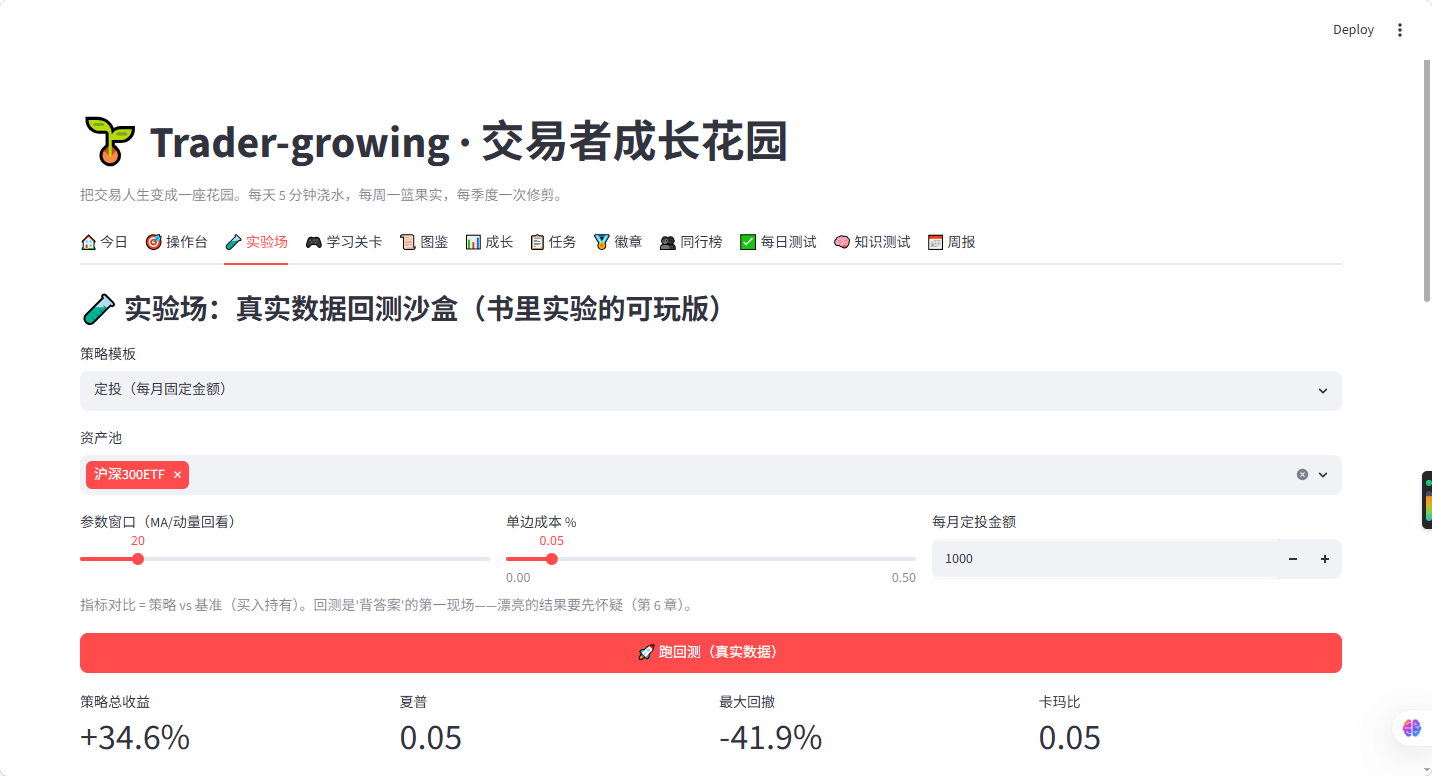
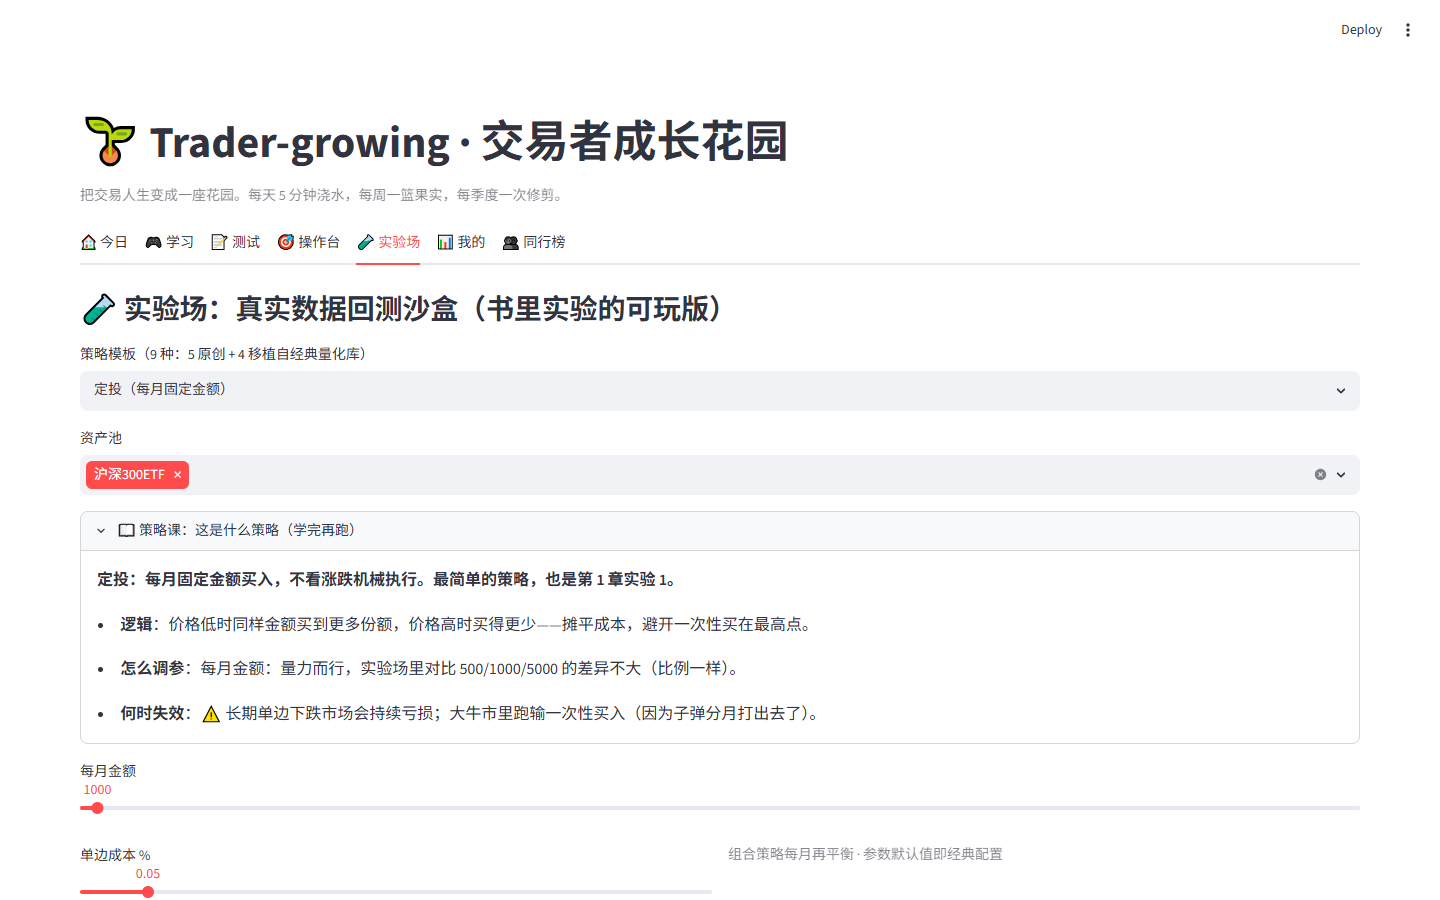
feat: 陷阱迷宫新增 6-4 关卡「马克维茨翻车现场」+ 截图更新
- levels.py: 6-4 关卡（知识卡+动态任务+3题测验+配图）
- levels.py: solve_task 新增 ef_champion —— scipy 实算四资产马克维茨
  最大夏普权重，答案动态（当前数据：黄金 74%）
- charts.py: ef_weights —— 马克维茨 vs 风险平价权重对比柱状图
- bestiary.py: 新图鉴条目「有效前沿」（关卡专属解锁）
- app.py: _evidence 展示马克维茨 vs 风险平价权重差（集中押注）
- scripts/screenshot.py: tab 名适配（🎮 学习关卡 → 🎮 学习）
- assets/screenshots: 三张界面截图重新生成（适配 7-tab 新界面）

diff --git a/trader_growing/levels.py b/trader_growing/levels.py
@@ -616,6 +616,29 @@ LEVELS = {'1-1': {'chapter': 1,
                    'ans': 0,
                    'exp': '真实案例：同样 5 年数据，两种切法一正一负——切法一变就翻脸。'}],
          'chart': 'odd_even_bars'},
+ '6-4': {'chapter': 6,
+         'name': '马克维茨翻车现场',
+         'dim': 'philosophy',
+         'xp': 15,
+         'figure': 'markowitz',
+         'knowledge': '马克维茨组合（有效前沿）= 用历史数据优化权重，找「夏普最高」的配置——相当于在「权重空间」里选参数。它样本内永远是学霸（权重就照着样本内答案优化）；但期望收益是最难估计的量，优化会把历史噪音当规律。学术经典（DeMiguel 2009）：由于估计误差，朴素方法（等权/风险平价）样本外经常反超「最优」。四资产实测（样本内 2016-2024 → 样本外 2025 起）：马克维茨把约七成仓位押给黄金（风险平价只给四成）；样本外风险调整后夏普 1.33 输给风险平价 1.63，回撤 -21% 近两倍。估计得越多，错得越多；「最优」两个字最危险。',
+         'task': {'type': 'ef_champion',
+                  'args': {},
+                  'text': '🧪 实战任务：四资产（沪深300/纳指100/黄金/原油）真实验证。在样本内（{is_start}~{is_end}）做「马克维茨最大夏普」优化，它会把最大的仓位分给哪个资产？（输入：1=沪深300，2=纳指100，3=黄金，4=原油）',
+                  'hint': '马克维茨按「期望收益 ÷ 协方差」打分——历史上的大赢家会被喂到最饱'},
+         'quiz': [{'q': '马克维茨有效前沿依赖哪个最难估计的输入？',
+                   'opts': ['股价', '期望收益', '成交量', '交易日'],
+                   'ans': 1,
+                   'exp': '期望收益是金融里最难估计的量——这是它脆弱的根源。'},
+                  {'q': '为什么朴素方法（等权/风险平价）样本外常常更好？',
+                   'opts': ['运气好', '不需要估计期望收益，绕开了最大的估计误差', '数学更复杂', '历史更长'],
+                   'ans': 1,
+                   'exp': 'DeMiguel 2009：估计误差的代价经常超过优化带来的好处。'},
+                  {'q': '「样本内最优 → 样本外光环消失」的本质是？',
+                   'opts': ['数据错误', '优化把历史噪音当规律——权重也会过拟合', '市场太强', '计算精度不够'],
+                   'ans': 1,
+                   'exp': '参数会过拟合，权重同样会——「最优」两个字永远要警惕。'}],
+         'chart': 'ef_weights'},
  '6-BOSS': {'chapter': 6,
             'name': '规则负担',
             'dim': 'philosophy',
@@ -1574,3 +1597,34 @@ def solve_task(ttype, args=None):
                        "mom_ranks": ", ".join("{}{}".format(r, names[i]) for i, r in sorted(mr.items(), key=lambda x: x[1])),
                        "ret_ranks": ", ".join("{}{}".format(r, names[i]) for i, r in sorted(rr.items(), key=lambda x: x[1])),
                        "agree": agree}
+
+    if ttype == "ef_champion":
+        """马克维茨最大夏普权重：argmax 资产（第6章 · 马克维茨翻车现场）"""
+        import pandas as _pd
+        syms = ["510300.SS", "513100.SS", "518880.SS", "501018.SS"]
+        names4 = {"510300.SS": "沪深300", "513100.SS": "纳指100", "518880.SS": "黄金", "501018.SS": "原油"}
+        cc = common_close(syms)
+        if not cc:
+            return None, "四资产数据缺失"
+        df = _pd.DataFrame(cc).dropna()
+        is_df = df.loc[:"2024-12-31"]
+        ret = is_df.pct_change().dropna()
+        if len(ret) < 250:
+            return None, "样本内数据不足"
+        mu = ret.mean().values * 252
+        cov = ret.cov().values * 252
+        n = len(syms)
+        cons = [{"type": "eq", "fun": lambda w: np.sum(w) - 1}]
+        try:
+            from scipy.optimize import minimize as _mini
+            r = _mini(lambda w: -(w @ mu) / np.sqrt(w @ cov @ w), np.ones(n) / n,
+                      method="SLSQP", bounds=[(0, 1)] * n, constraints=cons)
+            w_ef = r.x
+        except Exception:
+            return None, "优化失败"
+        k = int(np.argmax(w_ef))
+        vol = ret.std()
+        w_rp = (1 / vol) / (1 / vol).sum()
+        return k + 1, {"is_start": str(is_df.index[0].date()), "is_end": str(is_df.index[-1].date()),
+                       "name": names4[syms[k]], "w_ef": float(w_ef[k]),
+                       "w_rp": float(w_rp.iloc[k])}

diff --git a/trader_growing/charts.py b/trader_growing/charts.py
@@ -207,6 +207,45 @@ def ic_scatter(syms=None):
     return fig
 
 
+def ef_weights():
+    """马克维茨最大夏普 vs 风险平价：权重对比（样本内 2016-2024）"""
+    import pandas as pd
+    from trader_growing.dashboard import common_close
+    syms = ["510300.SS", "513100.SS", "518880.SS", "501018.SS"]
+    names = ["沪深300", "纳指100", "黄金", "原油"]
+    cc = common_close(syms)
+    if not cc:
+        return None
+    df = pd.DataFrame(cc).dropna()
+    is_df = df.loc[:"2024-12-31"]
+    ret = is_df.pct_change().dropna()
+    if len(ret) < 250:
+        return None
+    mu = ret.mean().values * 252
+    cov = ret.cov().values * 252
+    n = 4
+    cons = [{"type": "eq", "fun": lambda w: np.sum(w) - 1}]
+    try:
+        from scipy.optimize import minimize
+        w_ef = minimize(lambda w: -(w @ mu) / np.sqrt(w @ cov @ w), np.ones(n) / n,
+                        method="SLSQP", bounds=[(0, 1)] * n, constraints=cons).x
+    except Exception:
+        return None
+    vol = ret.std()
+    w_rp = ((1 / vol) / (1 / vol).sum()).values
+    fig, ax = plt.subplots(figsize=(4.6, 3.2))
+    x = np.arange(n)
+    ax.bar(x - 0.18, w_ef * 100, width=0.36, color="#E63946", label="马克维茨最大夏普")
+    ax.bar(x + 0.18, w_rp * 100, width=0.36, color="#2A9D8F", label="风险平价")
+    ax.set_xticks(x)
+    ax.set_xticklabels(names)
+    ax.set_ylabel("权重 %")
+    ax.set_title("马克维茨 vs 风险平价：优化把赌注堆给了谁", fontsize=11)
+    ax.legend(fontsize=8)
+    fig.tight_layout()
+    return fig
+
+
 CHART_FNS = {
     "corr_scatter": corr_scatter,
     "vol_weights": vol_weights,
@@ -216,4 +255,5 @@ CHART_FNS = {
     "in_out_bars": in_out_bars,
     "odd_even_bars": odd_even_bars,
     "ic_scatter": ic_scatter,
+    "ef_weights": ef_weights,
 }

diff --git a/trader_growing/bestiary.py b/trader_growing/bestiary.py
@@ -48,6 +48,7 @@ ENTRIES = [
     ("regime",       "市场状态",   "市场像天气：高波动是台风天，策略要会看天气", "研究", 60),
     ("vol_filter",   "波动率过滤", "高波动时减仓，躲过暴跌也躲过暴涨", "风控", 60),
     ("reconcile",    "纪律对账",   "计划 vs 实际：把说好的止损和实际砍的价对一对", "修行", 100),
+    ("markowitz",    "有效前沿",   "马克维茨均值-方差优化——样本内的学霸，样本外的风险", "配置", 999),
 ]
 
 

diff --git a/app.py b/app.py
@@ -298,6 +298,8 @@ with tab2:
                 info["ret"] - info["cost"], **info)
         if "ret" in info and "dd" not in info:
             return "（近一年真实涨幅 {ret:+.1%}）".format(**info)
+        if "w_ef" in info:
+            return "（马克维茨把 {name} 分到 {w_ef:.0%}，风险平价只给 {w_rp:.0%}——这就是「集中押注」）".format(**info)
         return ""
 
     def _check_level_achievements(prog_, char_):

diff --git a/scripts/screenshot.py b/scripts/screenshot.py
@@ -36,7 +36,7 @@ def main():
         page.wait_for_timeout(6000)
         shot(page, "🏠 今日", "home.png")
         shot(page, "🧪 实验场", "lab.png")
-        shot(page, "🎮 学习关卡", "levels.png")
+        shot(page, "🎮 学习", "levels.png")
         browser.close()
     print("完成 ->", OUT)
 
